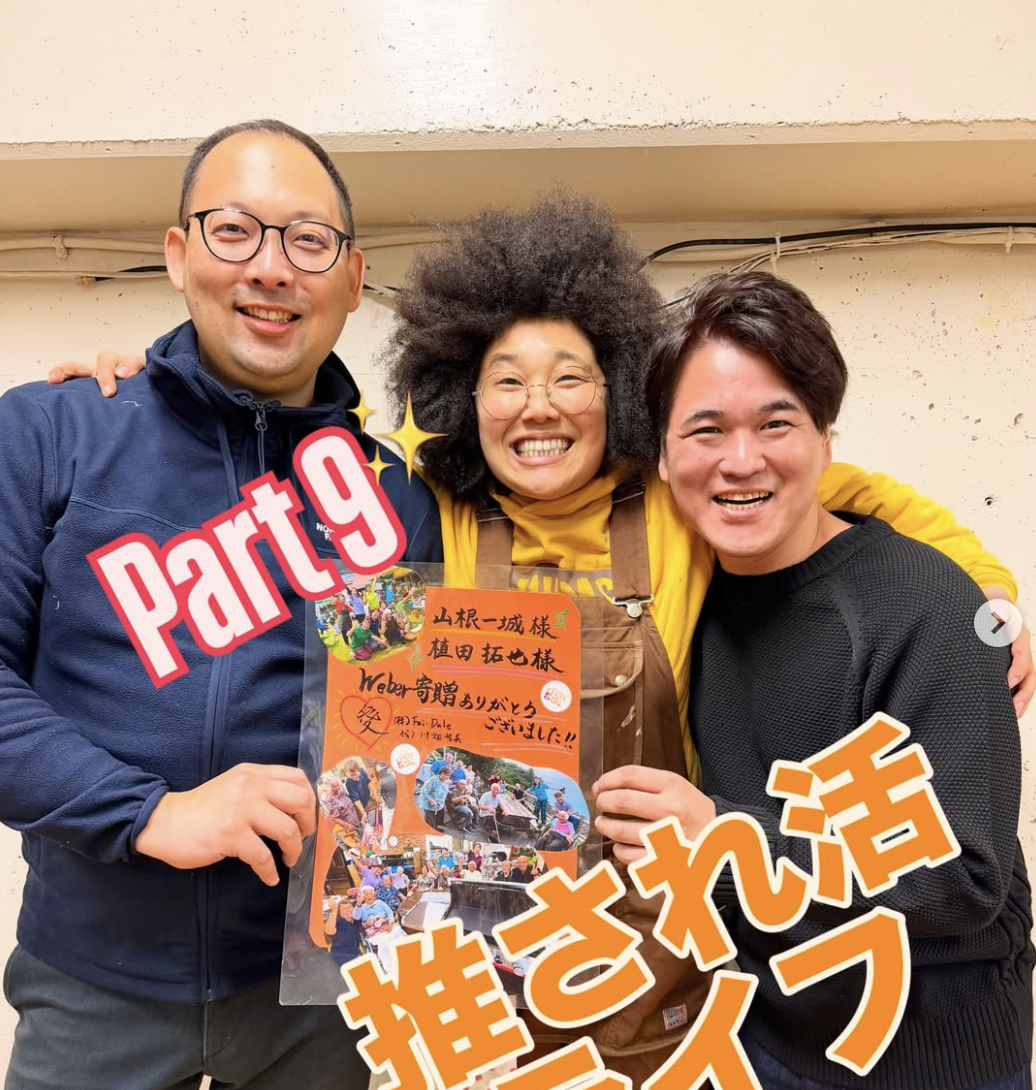
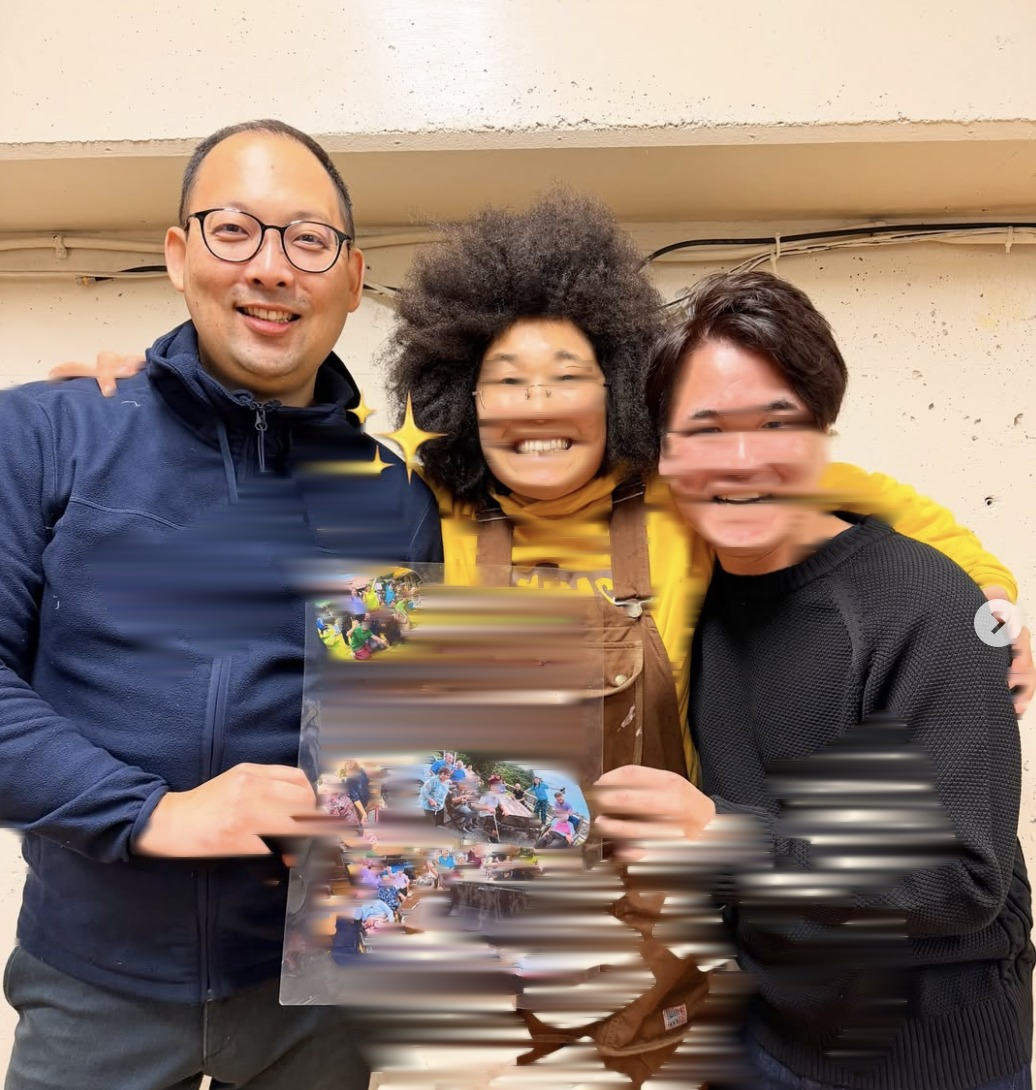
Rewrite team page: founders' origin story + SLOW FIRE philosophy
User feedback addressed:
1. Photo caption fixed: positions are 植田拓也 (left), 石原杏莉 (center,
   Founder), 山根一城 (right). Member cards reordered to match.
2. team-photo.jpg: programmatically removed the "Part 9" red overlay text
   and the orange "推され活ライフ" overlay using a horizontal-blend inpaint
   over a saturated-color mask, then a Gaussian smooth pass to blend edges.
   Original kept as team-photo-original.jpg as backup.
3. Added the founders' origin story (4 chapters):
   - 第1章：すべては、コロナ禍の名古屋から始まった (石原 ↔ Troy氏)
   - 第2章：Authentic Worksのリーダーシップワークショップで3人が出会う
   - 第3章：2025年7月の与論島で山根が人生最高の食事に出会う
   - 第4章：山根と植田がWeber Grill Academyに通い詰める
4. New OUR PHILOSOPHY section with 5 cornerstones from the founders'
   internal dialogue:
   - バーベキューを日常にする (あんちゃんのキーフレーズ)
   - BBQ は自己Aに一瞬で入れる装置
   - Concrete / Subtle / MetAware の3層 (成人発達理論STAGES)
   - 食は世界で唯一の「普遍的なニーズ」
   - Weber=吉田松陰 / 私たち=高杉晋作 の役割分担

Member bios also updated to reflect each person's actual role in the
origin story (instead of the generic placeholders).

diff --git a/team.html b/team.html
@@ -348,7 +348,7 @@
   <section class="team-photo-section">
     <div class="team-photo-wrap">
       <img src="team-photo.jpg" alt="SLOW FIREチーム3名" loading="eager">
-      <p class="team-photo-caption">左から：山根一城、石原杏莉（中央・Founder）、植田拓也 — Weber寄贈式にて</p>
+      <p class="team-photo-caption">左から：植田 拓也、石原 杏莉（中央・Founder）、山根 一城 — Weber寄贈式にて</p>
     </div>
   </section>
 
@@ -357,12 +357,12 @@
     <div class="members-grid">
 
       <div class="member-card">
-        <div class="member-avatar">🔥</div>
+        <div class="member-avatar">🥩</div>
         <p class="member-role">Co-Founder</p>
-        <h3 class="member-name">山根 一城</h3>
-        <p class="member-name-en">Kazuki Yamane</p>
-        <p class="member-bio">ポテンシャライト代表。採用コンサルティング・人材紹介・SaaS・AI事業を手がけながら、「BBQが飲み会の代わりになる文化」を日本に作ることに情熱を注ぐ。Weber Grill Academyで技術を磨き、石原さんが拓いたBBQ文化の広がりを全力でサポートする。</p>
-        <span class="member-tag">BBQ × ビジネス</span>
+        <h3 class="member-name">植田 拓也</h3>
+        <p class="member-name-en">Takuya Ueda</p>
+        <p class="member-bio">BBQをこよなく愛する共同創業者。Weber Grill Academy で技術を磨き、グリルを次々と買い揃えた現役ピットマスター。オーストラリアのラブと日本のBBQ文化の橋渡しを担い、SLOW FIRE SHOPの販路開拓と流通ルートを確立する。</p>
+        <span class="member-tag">流通 × BBQ</span>
       </div>
 
       <div class="member-card founder">
@@ -370,17 +370,17 @@
         <p class="member-role">Founder</p>
         <h3 class="member-name">石原 杏莉</h3>
         <p class="member-name-en">Anri Ishihara</p>
-        <p class="member-bio">SLOW FIREの創設者。「GOOD FOOD, GOOD SMILE!」を合言葉に、BBQを日本の日常に根付かせる活動を牽引。オーストラリアのBBQ文化に精通し、ラブの使い方を誰もが楽しめる形で伝える。石原さんの笑顔と情熱が、SLOW FIREの原点。</p>
+        <p class="member-bio">SLOW FIREの創設者。コロナ禍に名古屋でBBQの伝説的職人 トロイ氏 と出会い、BBQ文化を日本に持ち込む決意をする。「GOOD FOOD, GOOD SMILE!」を合言葉に、与論島・全国各地で人々を笑顔に変えてきた、すべての始まり。</p>
         <span class="member-tag" style="background:var(--brand);color:var(--white);">BBQカルチャー 創設</span>
       </div>
 
       <div class="member-card">
-        <div class="member-avatar">🥩</div>
+        <div class="member-avatar">🔥</div>
         <p class="member-role">Co-Founder</p>
-        <h3 class="member-name">植田 拓也</h3>
-        <p class="member-name-en">Takuya Ueda</p>
-        <p class="member-bio">BBQをこよなく愛する共同創業者。オーストラリアのラブと日本のBBQ文化の橋渡しを担い、SLOW FIRE SHOPの販路開拓と流通ルートを確立。石原さんのビジョンを、実際に届けられる仕組みに変える。</p>
-        <span class="member-tag">流通 × BBQ</span>
+        <h3 class="member-name">山根 一城</h3>
+        <p class="member-name-en">Kazuki Yamane</p>
+        <p class="member-bio">ポテンシャライト代表。採用コンサルティング・人材紹介・SaaS・AI事業を手がけながら、2025年7月の与論島で人生最高の食事に出会い、BBQの伝道師となる。「飲み会の代わりにBBQ」を日本の日常にする活動を牽引。</p>
+        <span class="member-tag">BBQ × ビジネス</span>
       </div>
 
     </div>
@@ -390,21 +390,95 @@
   <section class="story-section">
     <div class="story-content">
       <p class="label-sm">OUR STORY</p>
-      <h2>なぜ、オーストラリアの<br>ラブを日本に届けるのか。</h2>
+      <h2>3人がここに<br>たどり着くまで。</h2>
 
-      <p>SLOW FIREのすべては、石原杏莉の「GOOD FOOD, GOOD SMILE!」という一言から始まっています。食べた人が笑顔になる。その体験をもっと多くの人に届けたい——それがこのプロジェクトの出発点でした。</p>
+      <h3 style="font-size:18px;font-weight:900;margin-top:32px;margin-bottom:14px;color:var(--brand);">第1章：すべては、コロナ禍の名古屋から始まった</h3>
 
-      <p>石原さんはオーストラリアのBBQ文化に精通し、「ラブさえあれば、誰でも笑顔になれる料理ができる」という確信を持っています。日本でもそのラブを手に入れられるようにしたい。その思いが、SLOW FIRE SHOPを生みました。</p>
+      <p>SLOW FIRE のすべての始まりは、ファウンダーである <strong>石原 杏莉（あんちゃん）</strong> の手にあります。</p>
 
-      <p><strong>「ラブの種類が変わると、BBQの世界が根本から変わる」</strong></p>
+      <p>コロナ禍の只中、生活に張りがなくなり、日々がただ過ぎていく感覚。ただひとつ救いだったのは、たまたま名古屋に住んでいたこと。そして名古屋には、BBQ界で「伝説の人」と呼ばれる <strong>トロイ氏</strong> が暮らしていました。</p>
 
-      <p>日本で手に入るBBQ調味料は限られています。しかしオーストラリアでは、バックヤードからコンペティションまで、何十種類ものラブがBBQ文化の中心にあります。Low n Slow Basicsはその中でも、プロが認めるフレーバー・発色・汎用性を持つブランドでした。</p>
+      <p>偶然のような奇跡から、あんちゃんはトロイ氏と出会い、BBQ という調理法に出会いました。そこから探求が始まり、学び、自分でも作り、知り合いに振る舞っていきます。<strong>BBQ を食べた人たちが、文字通り「笑顔になっていく」</strong> 瞬間を、何度も目にしてきました。</p>
+
+      <p>これが、SLOW FIRE の真の起源です。</p>
+
+      <h3 style="font-size:18px;font-weight:900;margin-top:36px;margin-bottom:14px;color:var(--brand);">第2章：3人を出会わせたリーダーシップワークショップ</h3>
+
+      <p>あんちゃん・山根・植田の3人は、<strong>オーセンティックワークス</strong> が運営するリーダーシップワークショップで出会いました。同じ場で同じ言葉を交わし、価値観の輪郭を確かめ合うなかで、3人それぞれが「人を幸せにする仕事」を志している事実を知ります。</p>
+
+      <p>ただ、当時はまだ BBQ の話は副次的なものでした。</p>
+
+      <h3 style="font-size:18px;font-weight:900;margin-top:36px;margin-bottom:14px;color:var(--brand);">第3章：与論島の夜、人生最高の食事</h3>
+
+      <p>転機は <strong>2025年7月</strong>。沖縄県・与論島で行われた、3人での合流。あんちゃんが BBQ を担当しました。</p>
+
+      <p>そこで山根が体験したのは、<strong>「人生で食べたなかで、最も美味しい食事」</strong> でした。</p>
 
       <div class="story-quote">
-        <p>「飲みに行こう」が「BBQしよう」に変わる日常を、日本にも。</p>
+        <p>食べた瞬間、言葉が出なくなって、目をつむりたくなる。場の空気が一気に変わる。これが、本当の BBQ なのか。</p>
       </div>
 
-      <p>石原さんのビジョンに共感した山根・植田がチームに加わり、オーストラリアの正規流通ルートを確立。日本では手に入らなかったラブを、全国どこへでもお届けできる体制を整えました。SLOW FIREは3人の情熱が合わさって動いています。</p>
+      <p>山根はこれまでにも美味しい料理を口にしてきました。けれど、与論島で口にした BBQ は、それを大きく飛び越えていました。<strong>あの瞬間、山根は BBQ の伝道師になることを決めた</strong> のです。</p>
+
+      <h3 style="font-size:18px;font-weight:900;margin-top:36px;margin-bottom:14px;color:var(--brand);">第4章：山根と植田が、Grill Academy に通い詰める</h3>
+
+      <p>山根と植田はその後、<strong>Weber Grill Academy</strong> に通い、技術を体系的に学んでいきます。グリルを次々と買い、自宅のベランダや庭で実験を重ね、家族や仲間に振る舞っては反応を確かめる日々。</p>
+
+      <p>そして気づきます。<strong>「BBQ とは、料理の技術ではない。場を作る思想だ」</strong> と。</p>
+
+      <p>3人の力が合わさって、SLOW FIRE は動き始めました。あんちゃんの「BBQ を日常にしたい」という確信、山根の「飲み会の代わりに BBQ を」というビジョン、植田の「実際に届けられる仕組みを作る」という実行力。これら3つの源流が交わったところに、SLOW FIRE は立っています。</p>
+    </div>
+  </section>
+
+  <!-- PHILOSOPHY -->
+  <section class="story-section" style="background: var(--off-white);">
+    <div class="story-content">
+      <p class="label-sm">OUR PHILOSOPHY</p>
+      <h2>BBQで実現したい<br>世界観について。</h2>
+
+      <p>SLOW FIRE は、ただ「美味しい BBQ を提供する」プロジェクトではありません。私たちが BBQ を通じて実現したい世界観は、もう少し深いところにあります。3人で繰り返し対話を重ねるなかで見えてきた、思想の輪郭をここに記しておきます。</p>
+
+      <h3 style="font-size:18px;font-weight:900;margin-top:32px;margin-bottom:14px;color:var(--brand);">1. バーベキューを、日常にする</h3>
+
+      <p>あんちゃんから出たキーワード。これがすべての出発点です。</p>
+
+      <p>BBQ は特別な日のものではない。週末のちょっとした集まり、家族とのささやかな食卓、平日の終わりに友人と火を囲む時間。<strong>BBQ が「飲み会の代わりに当たり前に提案できる選択肢」になる日本</strong>。それが、SLOW FIRE が向かう先です。</p>
+
+      <h3 style="font-size:18px;font-weight:900;margin-top:32px;margin-bottom:14px;color:var(--brand);">2. BBQは、自己Aに一瞬で入れる装置</h3>
+
+      <p>山根が与論島で体験したのは、ただ「美味しい」では説明がつかない感覚でした。<strong>食べた瞬間、言葉が出なくなり、目をつむりたくなる。場の雰囲気が一気に変わる。</strong></p>
+
+      <p>サッカーで一体感を得る瞬間。仕事で苦しみを越えて成功した瞬間。家族と海で遊ぶ時間。それらと近いけれど、また別の質感がある体験。<strong>BBQ は、人を「いまここ」に連れ戻す</strong>。それが他の食事との決定的な違いです。</p>
+
+      <h3 style="font-size:18px;font-weight:900;margin-top:32px;margin-bottom:14px;color:var(--brand);">3. Concrete / Subtle / MetAware の3層</h3>
+
+      <p>成人発達理論の <strong>STAGES</strong> モデルに、Concrete・Subtle・MetAware という3つの段階があります。</p>
+
+      <ul style="margin-top:8px;margin-bottom:8px;padding-left:24px;">
+        <li><strong>Concrete</strong>（具体）：物質的・五感で確認できるもの — 美味しい、香ばしい、ジューシー</li>
+        <li><strong>Subtle</strong>（意味）：感情・関係性・空気感・美意識 — 場の質、誰と食べているか</li>
+        <li><strong>MetAware</strong>（俯瞰）：意識そのもの・全体性 — 自分を超えた視座、いまここに在ること</li>
+      </ul>
+
+      <p>美味しい食事を出す店なら世の中にたくさんある（Concrete）。<strong>SLOW FIRE が届けたいのは、Subtle と MetAware の層にある体験</strong>です。BBQ は、料理であると同時に、その場全体の意識を変える装置になり得る——それが、3人が共有している確信です。</p>
+
+      <h3 style="font-size:18px;font-weight:900;margin-top:32px;margin-bottom:14px;color:var(--brand);">4. 食は、世界で唯一の「普遍的なニーズ」</h3>
+
+      <p>趣味や仕事の達成感は、人によって刺さる・刺さらないが分かれます。ゴルフ、サッカー、フットサル、麻雀、カフェ巡り——どれも素敵ですが、すべての人に「やりませんか？」とは言いにくい。</p>
+
+      <p>けれど、<strong>「食」だけは、地球上のすべての人が等しく必要としている普遍ニーズ</strong>です。だから BBQ は、誰に対しても自然に提案できる。SLOW FIRE のお客様は、世界中のすべての人。それくらい大きな射程を持っているプロジェクトだと、3人は本気で考えています。</p>
+
+      <h3 style="font-size:18px;font-weight:900;margin-top:32px;margin-bottom:14px;color:var(--brand);">5. Weber は吉田松陰、私たちは高杉晋作</h3>
+
+      <p>BBQ 文化を日本に持ち込もうとしてきた先人として、<strong>Weber Grill Academy</strong> の存在は欠かせません。グリルの作り、教育プログラム、コミュニティ — その思想は本物です。</p>
+
+      <p>けれど、まだ日本では「飲み会の代わりに BBQ」が当たり前にはなっていない。Weber が <strong>0 から 0.5 まで</strong> を担ってくれた。私たちは <strong>0.5 から 1、そして 1 から 99 へ</strong> を担う側として、この文化を日本に根付かせていきます。</p>
+
+      <p>これは、教育の世界における吉田松陰と高杉晋作の関係に似ているかもしれません。素晴らしい思想を確立してくれた人と、それを世の中に広げていく人。両者の役割は違うけれど、どちらも欠かせない。</p>
+
+      <div class="story-quote" style="margin-top:32px;">
+        <p>SLOW FIRE は、料理を売る会社ではなく、<br>「場の質」を変えるカルチャーを売る会社です。</p>
+      </div>
     </div>
   </section>
 
